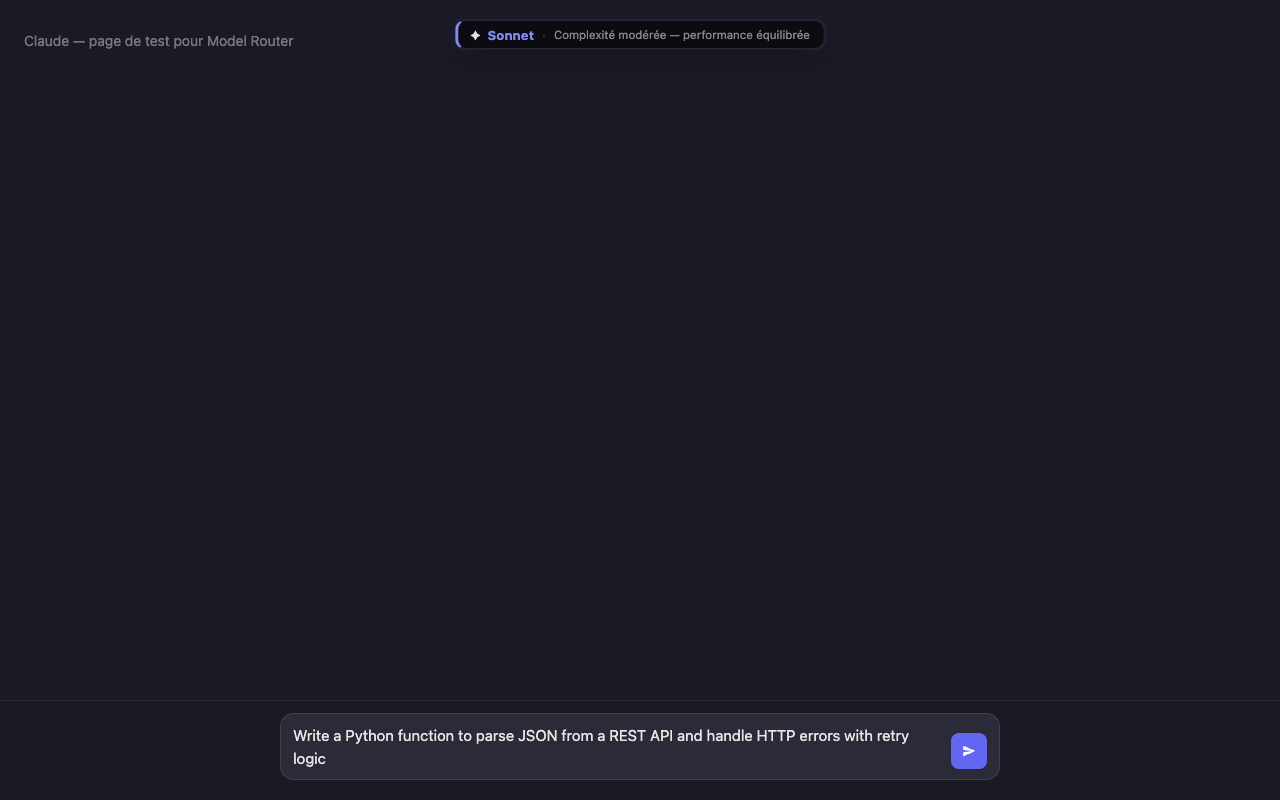
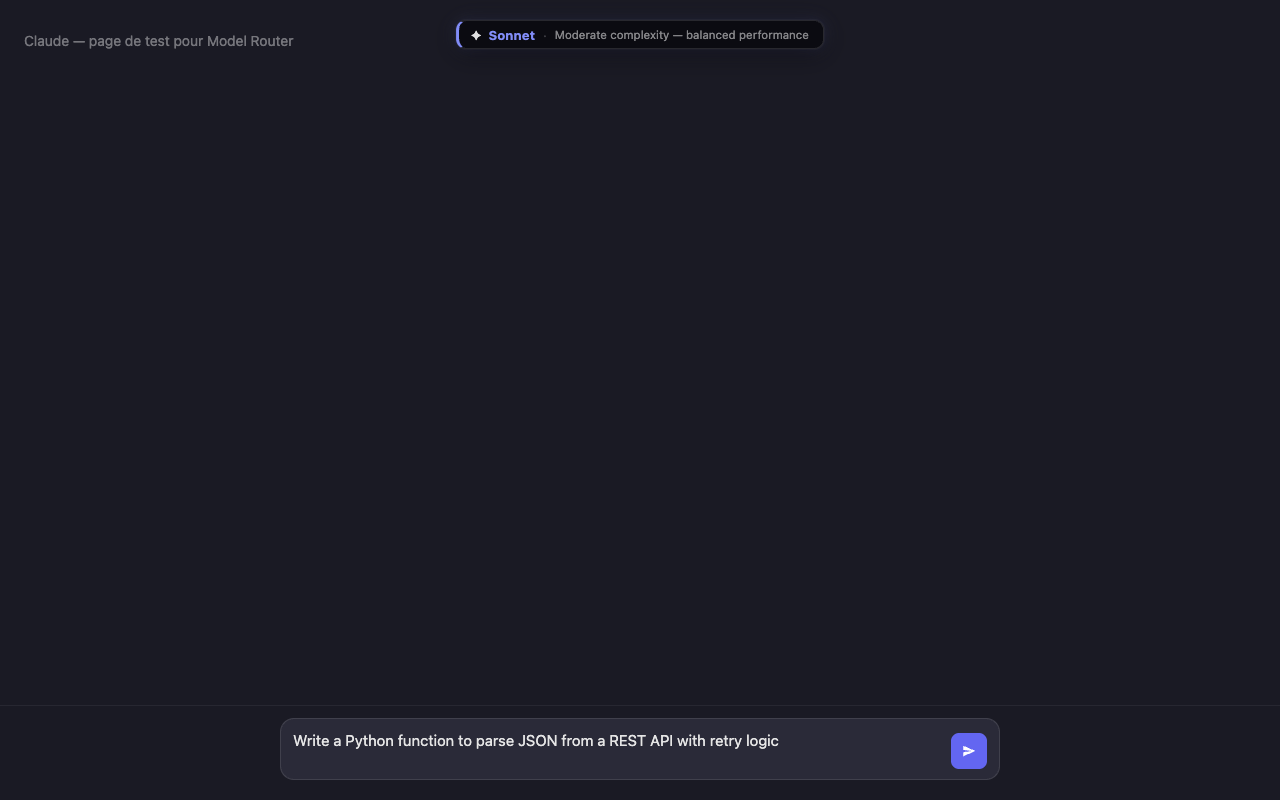
docs: rewrite README in English, document bilingual FR/EN support
- README now in English to match the extension UI
- New "Bilingual support" section with FR/EN keyword tables for Haiku
  and Opus domains, plus language detection explanation
- Screenshots regenerated with English badge reasons
  ("Simple request — fast & efficient", etc.)
- Installation guide and algorithm docs updated to reflect current state

Changed region(s): [[0.2188, 0.9062, 0.7188, 0.9688], [0.375, 0.0312, 0.625, 0.0625]]

diff --git a/README.md b/README.md
@@ -1,83 +1,121 @@
 # Model Router for Claude
 
-Extension Chrome qui analyse la complexité de vos requêtes en temps réel et suggère le modèle Claude optimal — **100% local, aucun appel externe**.
+Chrome extension that analyses your query complexity in real time and suggests the optimal Claude model — **100% local, no external calls, works in French and English**.
 
 ---
 
-## Aperçu
+## Overview
 
-Pendant que vous tapez dans claude.ai, un badge apparaît en haut de page avec une recommandation de modèle mise à jour à chaque frappe :
+As you type in claude.ai, a badge appears at the top of the page and updates on every keystroke:
 
-| Badge | Modèle | Cas d'usage |
+| Badge | Model | Use case |
 |---|---|---|
-| ⚡ **Haiku** | Simple et rapide | Traductions, résumés, définitions, corrections, reformulations |
-| ✦ **Sonnet** | Équilibré | Code (Python, React, SQL…), rédaction, analyse technique |
-| ◆ **Opus** | Raisonnement maximal | Recherche approfondie, droit, finance, stratégie, multi-étapes |
+| ⚡ **Haiku** | Fast & lightweight | Translations, summaries, definitions, corrections, rephrasing |
+| ✦ **Sonnet** | Balanced | Code (Python, React, SQL…), writing, standard technical tasks |
+| ◆ **Opus** | Maximum reasoning | In-depth research, law, finance, strategy, multi-step tasks |
 
-### ⚡ Haiku — requête simple
+### ⚡ Haiku — simple request (FR)
 
-![Badge Haiku](screenshots/haiku.png)
+![Haiku badge](screenshots/haiku.png)
 
-### ✦ Sonnet — code et technique
+### ✦ Sonnet — code & technical (EN)
 
-![Badge Sonnet](screenshots/sonnet.png)
+![Sonnet badge](screenshots/sonnet.png)
 
-### ◆ Opus — analyse complexe
+### ◆ Opus — complex analysis (FR)
 
-![Badge Opus](screenshots/opus.png)
+![Opus badge](screenshots/opus.png)
 
-### Après envoi — badge effacé
+### After send — badge cleared
 
-![Après envoi](screenshots/after-send.png)
+![After send](screenshots/after-send.png)
 
 ---
 
 ## Installation
 
-1. Cloner ou télécharger ce dépôt
-2. Ouvrir `chrome://extensions`
-3. Activer le **Mode développeur** (en haut à droite)
-4. Cliquer **Charger l'extension non empaquetée**
-5. Sélectionner le dossier `model-router-extension/`
-6. Aller sur [claude.ai](https://claude.ai) et commencer à taper
+1. Clone or download this repository
+2. Open `chrome://extensions`
+3. Enable **Developer mode** (top right)
+4. Click **Load unpacked**
+5. Select the `model-router-extension/` folder
+6. Go to [claude.ai](https://claude.ai) and start typing
 
 ---
 
-## Algorithme heuristique
+## Bilingual support (FR + EN)
 
-L'analyse repose sur **4 dimensions**, toutes calculées localement :
+The algorithm analyses keywords in **both languages simultaneously**, regardless of which language you use. No configuration needed.
 
-### 1. Dictionnaires enrichis
+### Haiku keywords
 
-- **Haiku** — verbes impératifs simples en début de phrase : `traduis`, `résume`, `définis`, `liste`, `corrige`, `reformule`…
-- **Sonnet** — langages et frameworks : `python`, `javascript`, `react`, `sql`, `docker`, `typescript`, `graphql`… (35+ entrées) → plancher Sonnet garanti
-- **Opus** — domaines académiques, juridiques (`contrat`, `compliance`, `litige`), financiers (`due diligence`, `valuation`), scientifiques (`regression`, `clustering`) → 50+ termes
-
-### 2. Structure de la phrase
-
-- **Nombre de phrases** : 1 → signal Haiku, 2-3 → Sonnet, 4+ → Opus
-- **Connecteurs multi-étapes** (`ensuite`, `également`, `d'abord`, `furthermore`, `additionally`…) : 2+ connecteurs → Opus forcé
-- **Impératif simple + phrase unique** → pénalité renforcée
-
-### 3. Contexte de conversation
-
-Lecture silencieuse du DOM (non bloquante, try/catch) :
-
-- 1-2 échanges → +3 pts, 3-4 → +8 pts, 5+ → +15 pts
-- Code détecté dans l'historique (`<pre>`, `<code>`) → plancher Sonnet
-- Conversation longue **et** technique → plancher Opus
-
-### 4. Type de contenu
-
-| Signal détecté | Effet |
+| French | English |
 |---|---|
-| URL (`https://…`) | +15 pts, plancher Sonnet |
-| Bloc de code \`\`\`…\`\`\` court | +18 pts, plancher Sonnet |
-| Bloc de code long (>300 chars) | +25 pts, plancher Opus |
-| 5+ valeurs numériques | +10 pts, plancher Sonnet |
-| Référence fichier (`.pdf`, `.csv`, `.xlsx`…) | +15 pts, plancher Sonnet |
+| `traduis` | `translate` |
+| `résume` | `summarize`, `sum up` |
+| `définis` | `define` |
+| `liste` | `list`, `enumerate` |
+| `corrige` | `fix`, `correct`, `proofread` |
+| `reformule` | `rephrase`, `reword`, `paraphrase` |
+| `explique` | `explain`, `clarify` |
+| `décris` | `describe` |
 
-### Seuils de décision
+### Opus domain keywords (sample)
+
+| Domain | French | English |
+|---|---|---|
+| Academic | `recherche`, `méthodologie` | `research`, `academic`, `scholarly` |
+| Legal | `juridique`, `contrat`, `litige` | `legal`, `contract`, `litigation`, `regulatory` |
+| Financial | `investissement`, `due diligence` | `financial`, `valuation`, `cash flow`, `forecasting` |
+| Scientific | `régression`, `modélisation` | `regression`, `data science`, `simulation` |
+| Strategy | `stratégie`, `architecture` | `strategy`, `competitive analysis`, `roadmap` |
+| Analysis | `analyse approfondie` | `explain in depth`, `analyze in detail`, `thorough analysis` |
+
+### Language detection
+
+The `detectLanguage()` function identifies the request language (`fr` / `en` / `mixed`) by counting French diacritics and stop-words against English stop-words. This is **informational only** — scoring always runs both dictionaries in parallel.
+
+---
+
+## Heuristic algorithm
+
+The score (0–100) is computed across **4 dimensions**, all locally:
+
+### 1. Enriched dictionaries
+
+- **Haiku** — simple imperative verbs at the start of a sentence, in FR or EN
+- **Sonnet** — 35+ programming languages and frameworks: `python`, `javascript`, `react`, `sql`, `docker`, `typescript`, `graphql`… → guaranteed Sonnet floor
+- **Opus** — 60+ terms across academic, legal, financial, and scientific domains → Opus floor when 2+ hits
+
+### 2. Sentence structure
+
+- **Sentence count**: 1 → Haiku signal · 2-3 → Sonnet · 4+ → Opus
+- **Multi-step connectors** — FR: `ensuite`, `également`, `d'abord` · EN: `then`, `furthermore`, `additionally`, `moreover`… — 2+ connectors → forced Opus floor
+- **Single-sentence imperative** → reinforced penalty
+
+### 3. Conversation context
+
+Silent, non-blocking DOM read (try/catch):
+
+| Condition | Effect |
+|---|---|
+| 1–2 exchanges | +3 pts |
+| 3–4 exchanges | +8 pts |
+| 5+ exchanges | +15 pts |
+| Code detected in history (`<pre>`, `<code>`) | +4–10 pts, Sonnet floor |
+| Long conversation + code | Opus floor |
+
+### 4. Content type
+
+| Signal | Effect |
+|---|---|
+| URL (`https://…`) | +15 pts, Sonnet floor |
+| Short code block ` ``` ` | +18 pts, Sonnet floor |
+| Long code block (>300 chars) | +25 pts, Opus floor |
+| 5+ numeric values | +10 pts, Sonnet floor |
+| File reference (`.pdf`, `.csv`, `.xlsx`…) | +15 pts, Sonnet floor |
+
+### Decision thresholds
 
 ```
 Score  0–31  →  ⚡ Haiku
@@ -85,26 +123,26 @@ Score 32–63  →  ✦ Sonnet
 Score 64–100 →  ◆ Opus
 ```
 
-Les signaux forts (langages, connecteurs, URL, fichiers) imposent un **score plancher** (`minScore`) indépendamment des autres critères.
+Strong signals (languages, connectors, URLs, files) set a **floor** (`minScore`) that guarantees a minimum model regardless of other criteria.
 
 ---
 
-## Structure du projet
+## Project structure
 
 ```
 model-router-extension/
-├── manifest.json   — Manifest V3, injecté sur claude.ai/*
-├── content.js      — Algorithme heuristique + gestion du badge
-├── styles.css      — Style du badge (glassmorphism, bordure colorée)
-├── popup.html      — Interface on/off de l'extension
-└── popup.js        — Logique du popup (chrome.storage)
+├── manifest.json   — Manifest V3, injected on claude.ai/*
+├── content.js      — Heuristic algorithm + badge management
+├── styles.css      — Badge styles (glassmorphism, colour-coded border)
+├── popup.html      — Enable/disable popup (English UI)
+└── popup.js        — Popup logic (chrome.storage)
 ```
 
 ---
 
-## Confidentialité
+## Privacy
 
-- Aucune donnée envoyée à un serveur externe
-- Aucun appel API
-- Tout le traitement se fait dans le navigateur, en mémoire, à la frappe
-- La seule permission réseau est `host_permissions: ["https://claude.ai/*"]` pour l'injection du script
+- No data sent to any external server
+- No API calls
+- All processing happens in the browser, in memory, on each keystroke
+- The only network permission is `host_permissions: ["https://claude.ai/*"]` for script injection